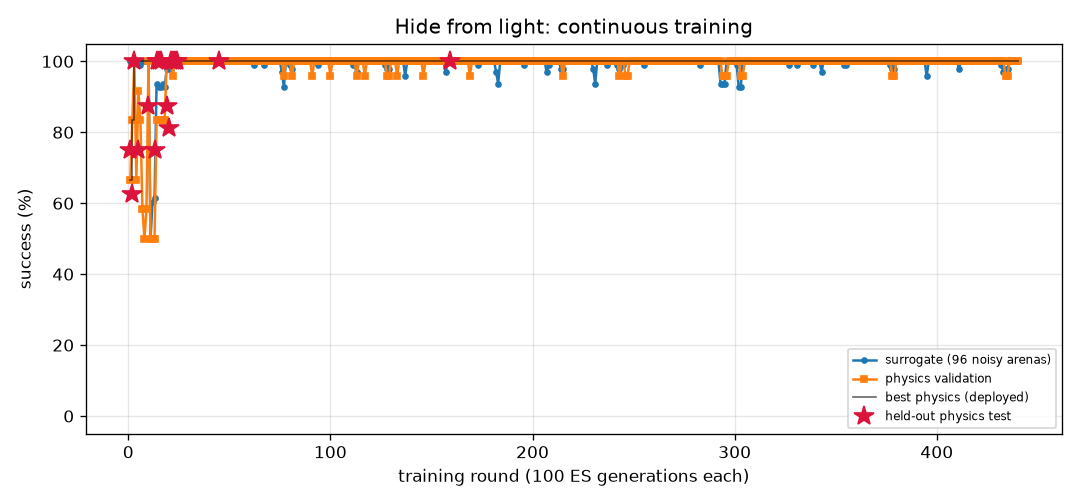
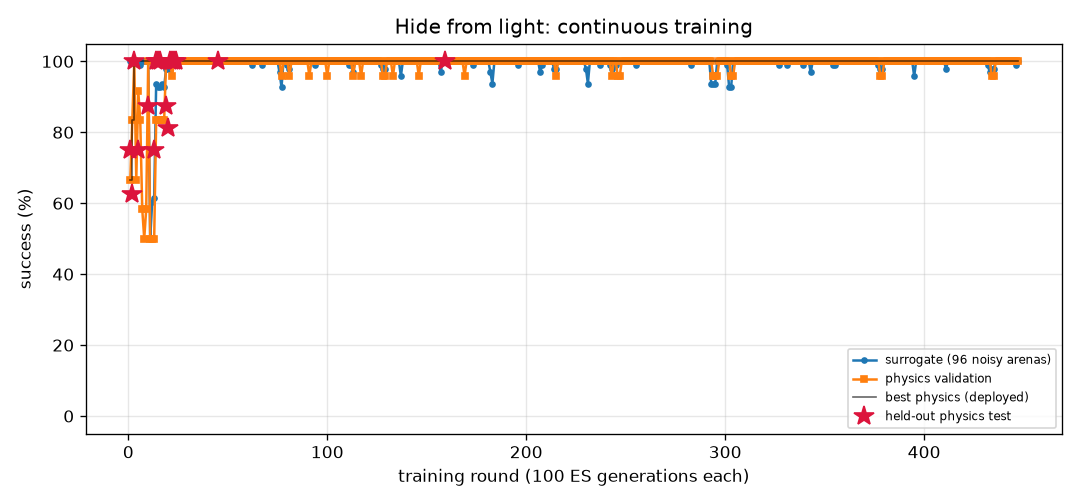
FlyLab: continuous training progress
- walk_forward: optimal, physics val 100% of 24, round 241
- turn: optimal, physics val 100% of 24, round 771
- goto: optimal, physics val 100% of 24, round 199
- odor_seek: optimal, physics val 100% of 24, round 170
- odor_avoid: optimal, physics val 100% of 24, round 711
- light_seek: optimal, physics val 100% of 24, round 396
- light_avoid: optimal, physics val 100% of 24, round 447

diff --git a/projects/09_flylab/training/light_avoid/REPORT.md b/projects/09_flylab/training/light_avoid/REPORT.md
@@ -1,14 +1,14 @@
 # Hide from light (`light_avoid`) — training report
 
-*Auto-generated by `train_brains.py`, last updated 2026-10-30T20:23:19.*
+*Auto-generated by `train_brains.py`, last updated 2026-10-31T21:10:55.*
 
 ![curve](curve.png)
 
 | | |
 |---|---|
-| rounds | 440 |
-| ES generations | 44000 |
-| physics runs | 10832 |
+| rounds | 447 |
+| ES generations | 44700 |
+| physics runs | 11000 |
 | status | **optimal** |
 | best brain | round 159: physics validation **100%** on 24 arenas, surrogate 100% |
 | held-out physics test | **100%** on 32 unseen arenas (95% CI 89%-100%) (errors: [14.4, 56.1, 58.0, 57.9, 57.5, 14.0, 14.4, 56.6, 56.8, 13.3, 14.1, 56.6, 57.6, 13.1, 57.3, 55.9, 57.2, 55.0, 55.2, 53.9, 55.2, 12.4, 53.8, 53.7, 14.1, 13.7, 55.0, 57.8, 56.2, 13.1, 52.8, 56.5]) |
@@ -17,13 +17,6 @@ Physics error per arena: mm gained away from source (> 6 without first approachi
 
 | round | level | gens | sigma | surrogate | physics val | val errors | test | note |
 |---:|---:|---:|---:|---:|---:|---|---:|---|
-| 401 | 3 | 40100 | 0.024 | 100% | 100% | [49.9, 52.0, 52.1, 49.8, 48.1, 49.5, 52.1, 14.5, 11.5, 13.3, 43.8, 47.9, 14.4, 48.2, 52.1, 49.4, 14.2, 49.2, 51.7, 14.4, 48.7, 46.7, 51.6, 46.9] |  |  |
-| 402 | 3 | 40200 | 0.024 | 100% | 100% | [58.7, 61.6, 61.6, 58.7, 59.9, 59.6, 60.7, 14.5, 55.0, 13.0, 59.7, 59.6, 14.4, 60.7, 61.6, 58.9, 14.2, 61.1, 61.8, 14.4, 57.8, 59.2, 60.8, 58.6] |  |  |
-| 403 | 3 | 40300 | 0.024 | 100% | 100% | [58.0, 60.8, 60.7, 58.4, 59.2, 58.6, 59.8, 14.5, 56.8, 13.5, 58.7, 58.9, 14.4, 60.0, 60.7, 58.3, 14.2, 60.2, 61.0, 14.4, 57.3, 59.3, 59.8, 58.1] |  | restart from best |
-| 404 | 3 | 40400 | 0.024 | 100% | 100% | [45.3, 46.4, 45.8, 46.5, 49.6, 46.0, 44.0, 14.5, 49.4, 13.2, 49.7, 49.9, 14.4, 49.7, 45.7, 45.8, 14.2, 49.5, 47.0, 14.4, 42.1, 50.6, 44.0, 50.0] |  |  |
-| 405 | 3 | 40500 | 0.024 | 100% | 100% | [58.1, 62.1, 61.8, 58.8, 62.0, 58.7, 60.5, 14.5, 57.2, 13.4, 61.2, 61.9, 14.4, 58.9, 62.2, 57.8, 14.2, 62.5, 62.6, 14.4, 59.4, 61.3, 60.3, 61.2] |  |  |
-| 406 | 3 | 40600 | 0.024 | 100% | 100% | [53.5, 58.6, 58.3, 55.0, 59.4, 55.2, 56.6, 14.5, 52.2, 13.4, 58.4, 59.4, 14.4, 57.1, 58.5, 53.6, 14.2, 60.0, 58.8, 14.4, 53.2, 58.1, 56.3, 59.0] |  |  |
-| 407 | 3 | 40700 | 0.024 | 100% | 100% | [51.6, 55.5, 55.0, 53.3, 56.8, 52.9, 53.0, 14.5, 51.9, 13.4, 56.8, 56.8, 14.4, 54.9, 54.6, 51.8, 14.2, 57.1, 55.2, 14.4, 50.3, 56.8, 52.8, 56.5] |  | restart from best |
 | 408 | 3 | 40800 | 0.024 | 100% | 100% | [55.3, 59.4, 59.1, 57.1, 59.2, 55.9, 57.7, 14.5, 53.2, 13.5, 58.5, 59.0, 14.4, 56.8, 59.3, 54.7, 14.2, 59.6, 59.6, 14.4, 55.8, 58.8, 57.6, 58.4] |  |  |
 | 409 | 3 | 40900 | 0.024 | 100% | 100% | [32.1, 31.4, 30.1, 33.5, 33.6, 33.2, 29.6, 14.5, 33.6, 13.4, 34.1, 33.1, 14.4, 35.0, 30.6, 34.5, 14.2, 34.9, 30.6, 14.4, 23.3, 33.5, 27.7, 33.9] |  |  |
 | 410 | 3 | 41000 | 0.024 | 100% | 100% | [53.9, 56.8, 56.9, 53.9, 53.3, 53.2, 56.8, 14.5, 42.6, 13.4, 49.8, 53.2, 14.4, 51.1, 56.9, 53.9, 14.2, 54.6, 56.4, 14.4, 52.1, 52.4, 56.3, 52.1] |  |  |
@@ -57,3 +50,10 @@ Physics error per arena: mm gained away from source (> 6 without first approachi
 | 438 | 3 | 43800 | 0.024 | 100% | 100% | [56.2, 58.6, 58.3, 56.4, 57.7, 56.5, 57.3, 14.5, 49.0, 13.5, 57.4, 57.5, 14.4, 57.1, 58.5, 56.4, 14.2, 58.2, 58.9, 14.4, 56.0, 57.4, 56.8, 56.9] |  |  |
 | 439 | 3 | 43900 | 0.024 | 100% | 100% | [33.4, 32.8, 32.4, 33.2, 31.8, 32.6, 35.2, 14.5, 24.1, 13.3, 33.2, 31.4, 14.4, 35.8, 33.7, 34.6, 14.2, 31.9, 34.1, 14.4, 31.1, 35.1, 33.8, 33.7] |  | restart from best |
 | 440 | 3 | 44000 | 0.024 | 100% | 100% | [53.0, 55.7, 55.6, 53.1, 51.9, 53.0, 55.4, 14.5, 49.4, 13.3, 53.6, 51.7, 14.4, 50.9, 55.6, 52.9, 14.2, 53.7, 55.5, 14.4, 51.6, 53.1, 55.0, 50.9] |  |  |
+| 441 | 3 | 44100 | 0.024 | 100% | 100% | [54.6, 59.7, 59.4, 55.4, 59.5, 55.9, 58.1, 14.5, 53.1, 13.4, 57.5, 59.3, 14.4, 59.2, 59.6, 57.4, 14.2, 59.9, 60.2, 14.4, 55.5, 57.7, 58.0, 58.8] |  |  |
+| 442 | 3 | 44200 | 0.024 | 100% | 100% | [58.4, 62.6, 62.4, 58.6, 61.9, 59.7, 61.2, 14.5, 12.7, 13.4, 60.1, 61.7, 14.4, 61.8, 62.6, 57.8, 14.2, 62.5, 63.0, 14.4, 60.2, 60.5, 61.1, 61.0] |  |  |
+| 443 | 3 | 44300 | 0.024 | 100% | 100% | [56.4, 60.8, 60.4, 57.4, 61.0, 57.4, 59.1, 14.5, 57.0, 13.4, 60.0, 60.9, 14.4, 58.0, 60.7, 56.3, 14.2, 61.3, 61.1, 14.4, 57.7, 60.3, 59.3, 60.3] |  | restart from best |
+| 444 | 3 | 44400 | 0.024 | 100% | 100% | [56.1, 61.0, 60.7, 56.9, 60.9, 57.8, 59.5, 14.5, 57.7, 13.1, 60.0, 60.8, 14.4, 58.5, 60.9, 55.7, 14.2, 61.5, 61.4, 14.4, 58.7, 59.9, 59.4, 60.2] |  |  |
+| 445 | 3 | 44500 | 0.024 | 100% | 100% | [51.1, 53.4, 53.3, 52.2, 55.7, 52.0, 51.6, 14.5, 52.7, 13.2, 55.6, 55.9, 14.4, 55.3, 53.4, 51.9, 14.2, 55.7, 53.8, 14.4, 50.0, 55.9, 51.5, 55.6] |  |  |
+| 446 | 3 | 44600 | 0.024 | 99% | 100% | [49.0, 49.6, 49.8, 49.3, 44.8, 48.3, 50.5, 14.5, 11.8, 13.4, 47.0, 43.9, 14.4, 46.6, 49.6, 48.4, 14.2, 45.7, 48.9, 14.4, 44.4, 48.1, 49.4, 43.1] |  |  |
+| 447 | 3 | 44700 | 0.025 | 100% | 100% | [58.0, 61.9, 61.7, 58.2, 59.6, 58.7, 60.9, 14.5, 56.5, 13.2, 60.5, 60.0, 14.4, 58.0, 61.9, 57.8, 14.2, 61.0, 61.8, 14.4, 58.2, 60.3, 60.6, 58.6] |  | restart from best |

diff --git a/projects/09_flylab/training/odor_avoid/REPORT.md b/projects/09_flylab/training/odor_avoid/REPORT.md
@@ -1,14 +1,14 @@
 # Escape a bad smell (`odor_avoid`) — training report
 
-*Auto-generated by `train_brains.py`, last updated 2026-10-31T20:09:28.*
+*Auto-generated by `train_brains.py`, last updated 2026-10-31T20:36:57.*
 
 ![curve](curve.png)
 
 | | |
 |---|---|
-| rounds | 708 |
-| ES generations | 70800 |
-| physics runs | 14298 |
+| rounds | 711 |
+| ES generations | 71100 |
+| physics runs | 14370 |
 | status | **optimal** |
 | best brain | round 373: physics validation **100%** on 24 arenas, surrogate 97% |
 | held-out physics test | **97%** on 32 unseen arenas (95% CI 84%-99%) (errors: [62.0, 57.4, 62.6, 61.9, 59.0, 61.6, 56.5, 60.7, 31.7, 60.9, 63.1, 57.1, 61.1, 62.1, 61.5, 60.2, 62.2, 55.2, 62.1, 54.2, 61.3, 62.0, 58.0, 61.9, 59.8, 56.5, 56.3, 56.4, 56.3, 57.7, 61.9, 32.4]) |
@@ -17,9 +17,6 @@ Physics error per arena: mm gained away from source (> 6 without first approachi
 
 | round | level | gens | sigma | surrogate | physics val | val errors | test | note |
 |---:|---:|---:|---:|---:|---:|---|---:|---|
-| 669 | 3 | 66900 | 0.027 | 96% | 96% | [58.6, 51.3, 54.8, 51.4, 57.9, 56.4, 54.2, 46.8, 54.6, 49.4, 50.5, 58.8, 48.8, 53.4, 36.5, 57.3, 58.9, 56.3, 48.2, 50.3, 58.9, 43.7, 51.4, 57.2] |  | restart from best |
-| 670 | 3 | 67000 | 0.026 | 94% | 96% | [62.7, 54.1, 58.3, 57.0, 61.8, 60.6, 60.6, 27.7, 59.2, 59.0, 61.6, 60.3, 53.4, 55.6, 42.6, 61.7, 60.9, 62.1, 54.0, 52.1, 60.2, 58.9, 57.0, 56.5] |  |  |
-| 671 | 3 | 67100 | 0.028 | 95% | 100% | [62.6, 60.8, 54.7, 60.9, 60.1, 61.1, 62.0, 58.4, 60.1, 48.8, 55.5, 59.8, 45.6, 54.3, 26.3, 59.3, 60.4, 57.4, 51.8, 56.9, 59.9, 62.0, 55.8, 62.6] |  |  |
 | 672 | 3 | 67200 | 0.027 | 96% | 96% | [61.5, 55.5, 56.1, 59.1, 61.5, 61.4, 60.7, 40.2, 61.1, 59.5, 60.7, 61.3, 51.8, 57.3, 41.6, 60.9, 61.3, 59.8, 54.4, 55.8, 60.6, 60.6, 60.8, 51.8] |  |  |
 | 673 | 3 | 67300 | 0.026 | 98% | 96% | [62.2, 57.7, 55.8, 57.6, 61.5, 62.1, 61.3, 55.7, 60.6, 56.1, 61.7, 62.2, 54.6, 55.6, 41.6, 61.1, 61.6, 61.7, 55.4, 58.9, 61.7, 60.5, 55.3, 58.7] |  | restart from best |
 | 674 | 3 | 67400 | 0.026 | 97% | 96% | [61.4, 59.5, 55.6, 59.5, 61.6, 37.0, 62.0, 13.6, 61.9, 47.5, 60.8, 61.9, 54.4, 56.3, 43.3, 61.2, 61.5, 61.5, 54.5, 56.2, 62.0, 25.6, 59.4, 52.2] |  |  |
@@ -57,3 +54,6 @@ Physics error per arena: mm gained away from source (> 6 without first approachi
 | 706 | 3 | 70600 | 0.026 | 94% | 96% | [63.2, 60.8, 56.3, 59.4, 61.1, 61.2, 61.2, 48.4, 61.3, 60.0, 48.8, 62.0, 53.5, 55.8, 40.4, 61.8, 61.8, 62.0, 54.2, 59.1, 62.3, 61.1, 56.3, 62.4] |  |  |
 | 707 | 3 | 70700 | 0.028 | 97% | 96% | [61.6, 59.2, 56.0, 61.1, 61.5, 61.8, 61.6, 61.4, 61.9, 58.5, 59.8, 62.0, 52.5, 55.4, 40.0, 62.1, 61.9, 62.0, 53.3, 56.9, 61.7, 61.5, 59.5, 61.9] |  |  |
 | 708 | 3 | 70800 | 0.026 | 95% | 100% | [62.4, 59.8, 51.1, 61.1, 61.3, 61.4, 60.4, 62.5, 62.0, 58.7, 44.1, 62.0, 47.5, 55.3, 35.4, 61.8, 62.1, 59.5, 53.2, 57.4, 61.7, 62.2, 61.4, 62.9] |  |  |
+| 709 | 3 | 70900 | 0.027 | 95% | 96% | [62.2, 59.0, 55.9, 60.9, 61.9, 62.4, 60.3, 62.1, 62.0, 59.6, 59.6, 62.0, 53.4, 55.5, 39.8, 62.5, 62.2, 62.4, 55.0, 56.7, 62.2, 62.3, 59.7, 62.8] |  | restart from best |
+| 710 | 3 | 71000 | 0.026 | 96% | 100% | [60.2, 55.8, 56.3, 56.9, 60.3, 61.2, 60.9, 59.2, 61.0, 40.3, 50.6, 61.3, 50.5, 55.7, 24.1, 60.9, 61.6, 61.6, 49.7, 57.7, 61.0, 60.3, 60.4, 60.3] |  |  |
+| 711 | 3 | 71100 | 0.026 | 95% | 96% | [59.6, 52.7, 55.7, 56.2, 60.7, 59.5, 57.9, 47.1, 57.9, 43.5, 52.8, 60.1, 48.7, 54.8, 12.6, 60.0, 60.4, 59.3, 48.3, 52.1, 60.5, 52.5, 56.9, 48.3] |  |  |

diff --git a/projects/09_flylab/training/light_seek/REPORT.md b/projects/09_flylab/training/light_seek/REPORT.md
@@ -1,14 +1,14 @@
 # Walk toward light (`light_seek`) — training report
 
-*Auto-generated by `train_brains.py`, last updated 2026-10-30T21:18:28.*
+*Auto-generated by `train_brains.py`, last updated 2026-10-31T21:07:13.*
 
 ![curve](curve.png)
 
 | | |
 |---|---|
-| rounds | 394 |
-| ES generations | 39400 |
-| physics runs | 6336 |
+| rounds | 396 |
+| ES generations | 39600 |
+| physics runs | 6384 |
 | status | **optimal** |
 | best brain | round 375: physics validation **100%** on 24 arenas, surrogate 100% |
 | held-out physics test | **100%** on 32 unseen arenas (95% CI 89%-100%) (errors: [0.57, 0.54, 0.53, 0.57, 0.55, 0.56, 0.59, 0.56, 0.53, 0.56, 0.71, 0.56, 0.55, 0.54, 0.53, 0.54, 0.54, 0.55, 0.52, 0.65, 0.64, 0.7, 0.58, 0.57, 0.6, 0.62, 0.55, 0.88, 0.54, 0.52, 0.62, 0.57]) |
@@ -17,8 +17,6 @@ Physics error per arena: mm from target at the end (< 1.5 and standing still = s
 
 | round | level | gens | sigma | surrogate | physics val | val errors | test | note |
 |---:|---:|---:|---:|---:|---:|---|---:|---|
-| 355 | 3 | 35500 | 0.024 | 100% | 100% | [0.68, 0.58, 0.53, 0.96, 0.84, 0.66, 0.63, 0.9, 0.87, 0.58, 0.96, 0.84, 0.99, 0.91, 0.62, 0.93, 0.65, 0.71, 0.65, 0.55, 0.55, 0.64, 1.0, 0.91] |  | restart from best |
-| 356 | 3 | 35600 | 0.024 | 100% | 100% | [0.62, 0.53, 0.64, 0.55, 0.62, 0.63, 0.64, 0.65, 0.59, 0.55, 0.62, 0.55, 0.69, 0.69, 0.59, 0.61, 0.59, 0.66, 0.56, 0.52, 0.61, 0.75, 0.56, 0.62] |  |  |
 | 357 | 3 | 35700 | 0.024 | 99% | 100% | [0.65, 0.65, 0.73, 0.64, 0.78, 0.59, 0.64, 0.82, 0.64, 0.64, 0.68, 0.62, 0.68, 0.64, 0.66, 0.66, 0.64, 0.79, 0.68, 0.71, 0.62, 0.68, 0.63, 0.6] |  |  |
 | 358 | 3 | 35800 | 0.025 | 100% | 100% | [1.02, 0.95, 0.76, 0.57, 0.66, 0.6, 0.55, 0.52, 0.64, 0.56, 0.56, 0.66, 0.51, 1.04, 0.66, 0.89, 0.69, 0.66, 0.55, 0.64, 0.64, 0.71, 0.71, 1.0] |  |  |
 | 359 | 3 | 35900 | 0.024 | 100% | 100% | [0.49, 0.52, 0.6, 0.57, 0.56, 0.51, 0.54, 0.53, 0.56, 0.79, 0.51, 0.58, 0.49, 1.0, 0.49, 0.96, 0.44, 0.61, 0.61, 0.92, 0.47, 0.52, 0.44, 0.82] |  | restart from best |
@@ -57,3 +55,5 @@ Physics error per arena: mm from target at the end (< 1.5 and standing still = s
 | 392 | 3 | 39200 | 0.024 | 100% | 100% | [0.48, 0.6, 0.49, 0.51, 1.01, 0.5, 0.5, 0.58, 0.72, 0.68, 0.52, 0.58, 0.85, 0.73, 0.53, 0.59, 0.66, 0.52, 0.67, 0.67, 0.81, 0.84, 0.57, 0.54] |  |  |
 | 393 | 3 | 39300 | 0.024 | 100% | 100% | [0.87, 0.51, 0.53, 0.52, 0.55, 0.5, 0.64, 0.57, 0.58, 0.48, 0.53, 0.55, 0.63, 0.56, 0.58, 0.51, 0.53, 0.51, 0.58, 0.58, 0.51, 0.5, 0.48, 0.76] |  |  |
 | 394 | 3 | 39400 | 0.024 | 100% | 96% | [0.54, 0.54, 0.6, 0.54, 0.63, 0.56, 0.63, 0.65, 0.68, 0.59, 0.75, 0.58, 0.54, 0.69, 0.71, 0.69, 0.54, 0.62, 0.63, 0.65, 0.53, 2.19, 0.64, 0.55] |  |  |
+| 395 | 3 | 39500 | 0.024 | 100% | 100% | [0.51, 0.54, 0.68, 0.64, 0.61, 0.54, 0.54, 0.55, 0.61, 0.51, 0.53, 0.51, 1.17, 0.53, 0.69, 0.67, 0.51, 0.6, 0.51, 0.62, 0.78, 0.78, 0.67, 0.55] |  | restart from best |
+| 396 | 3 | 39600 | 0.024 | 100% | 92% | [0.61, 0.66, 0.7, 0.71, 0.56, 2.04, 0.53, 0.6, 0.96, 0.64, 0.64, 0.56, 0.81, 1.02, 0.58, 0.58, 0.58, 0.56, 0.61, 1.5, 0.79, 0.57, 0.64, 0.82] |  |  |

diff --git a/projects/09_flylab/training/TRAINING.md b/projects/09_flylab/training/TRAINING.md
@@ -1,6 +1,6 @@
 # FlyLab brains — continuous training log
 
-*Auto-generated by `train_brains.py`, last updated 2026-10-31T20:09:49.*
+*Auto-generated by `train_brains.py`, last updated 2026-10-31T21:10:55.*
 
 Every skill has its own brain and its own training process: surrogate ES rounds, physics validation in MuJoCo, keep-the-best selection, and a held-out physics test that is never used for selection. See each skill's report for its full round-by-round history. Mastery is progressive: passing a level (100% physics validation, >=95% surrogate) doubles the validation and test arena sets; a brain is **optimal** once it holds up at level 3 (>=95% of 24 validation arenas) AND scores >=90% on the 32 held-out test arenas. Test columns show 95% Wilson confidence intervals.
 
@@ -10,6 +10,6 @@ Every skill has its own brain and its own training process: surrogate ES rounds,
 | [Turn in place](turn/REPORT.md) | 771 | 77100 | 18750 | 100% | 100% of 24 | 97% of 32 (CI 84-99%) | **optimal** |
 | [Go to a location](goto/REPORT.md) | 199 | 19900 | 4726 | 100% | 100% of 24 | 100% of 32 (CI 89-100%) | **optimal** |
 | [Find food by smell](odor_seek/REPORT.md) | 170 | 17000 | 3510 | 100% | 100% of 24 | 100% of 32 (CI 89-100%) | **optimal** |
-| [Escape a bad smell](odor_avoid/REPORT.md) | 708 | 70800 | 14298 | 97% | 100% of 24 | 97% of 32 (CI 84-99%) | **optimal** |
-| [Walk toward light](light_seek/REPORT.md) | 394 | 39400 | 6336 | 100% | 100% of 24 | 100% of 32 (CI 89-100%) | **optimal** |
-| [Hide from light](light_avoid/REPORT.md) | 440 | 44000 | 10832 | 100% | 100% of 24 | 100% of 32 (CI 89-100%) | **optimal** |
+| [Escape a bad smell](odor_avoid/REPORT.md) | 711 | 71100 | 14370 | 97% | 100% of 24 | 97% of 32 (CI 84-99%) | **optimal** |
+| [Walk toward light](light_seek/REPORT.md) | 396 | 39600 | 6384 | 100% | 100% of 24 | 100% of 32 (CI 89-100%) | **optimal** |
+| [Hide from light](light_avoid/REPORT.md) | 447 | 44700 | 11000 | 100% | 100% of 24 | 100% of 32 (CI 89-100%) | **optimal** |
